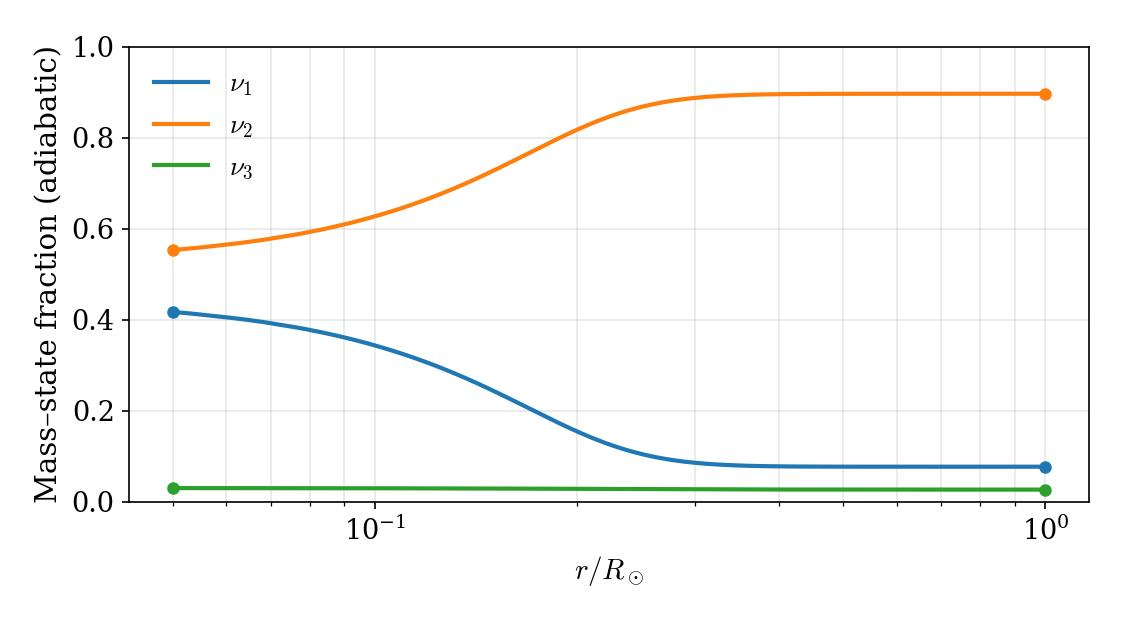
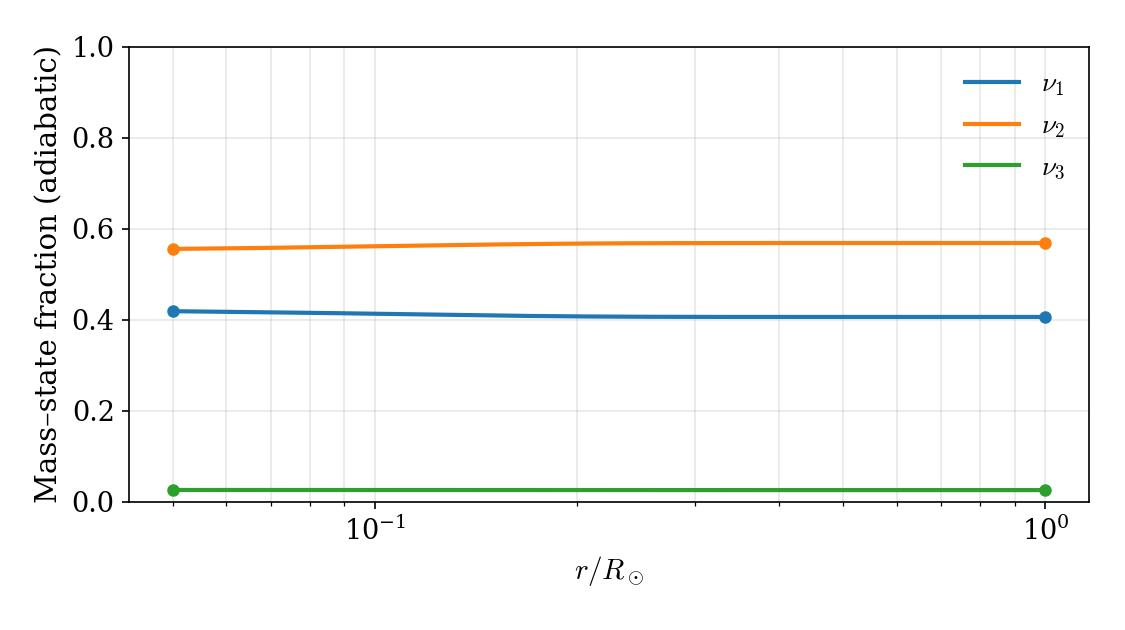
adding a few tests

diff --git a/src/nu_waves/matter/landau.py b/src/nu_waves/matter/landau.py
@@ -1,0 +1,96 @@
+import numpy as np
+
+def landau_zener_for_pair(r_km: np.ndarray,
+                          evals: np.ndarray,   # shape (n, N), eigenvalues λ_k(r)
+                          i: int, j: int,
+                          min_separation: float = 1e-12,
+                          window: int = 7):
+    """
+    Landau–Zener jump probability for an avoided crossing between modes i and j,
+    computed *only* from the adiabatic eigenvalues λ_k(r).
+
+    Key idea: near the crossing, the adiabatic gap
+      g_ad(r) = |λ_j(r) - λ_i(r)|
+    behaves like  sqrt( v^2 (r-r*)^2 + g_min^2 ),
+    so g_ad(r)^2 is a parabola with curvature  v^2 .
+    Fitting a quadratic to g_ad^2 around the minimum gives v = |dΔ/dr|_r*,
+    the derivative of the *diabatic* detuning needed in the LZ exponent.
+
+    Returns a dict with:
+      has_cross : bool
+      idx_star  : index near the crossing
+      r_star    : float, location of the crossing (interpolated)
+      gap       : float, minimal adiabatic gap g_ad(r*)  [same units as evals]
+      slope     : float, v = |dΔ/dr| at r*               [units of evals per km]
+      Pc        : float, Landau–Zener jump probability  Pc = exp(-π * gap^2 / (2 v))
+    """
+    r = np.asarray(r_km, dtype=float)
+    lam = np.asarray(evals, dtype=float)
+    if lam.ndim != 2 or r.ndim != 1 or lam.shape[0] != r.size:
+        raise ValueError("Shapes must satisfy: r_km -> (n,), evals -> (n, N)")
+
+    n = r.size
+    if n < 5:
+        # need a few points to fit a curvature
+        return dict(has_cross=False, idx_star=None, r_star=np.nan,
+                    gap=np.nan, slope=np.nan, Pc=0.0)
+
+    # Adiabatic gap between the two modes
+    d = lam[:, j] - lam[:, i]
+    g = np.abs(d)
+
+    # Locate index of minimal adiabatic gap
+    k0 = int(np.argmin(g))
+    if k0 < 2 or k0 > n - 3:
+        # too close to edge to estimate curvature robustly
+        return dict(has_cross=False, idx_star=k0, r_star=r[k0],
+                    gap=float(g[k0]), slope=np.nan, Pc=0.0)
+
+    # Build a symmetric window around k0 (odd number of points)
+    window = max(5, window | 1)  # ensure odd and >=5
+    half = min(window // 2, k0, n - 1 - k0)
+    sl = slice(k0 - half, k0 + half + 1)
+
+    x = r[sl] - r[k0]                # center x around the minimum
+    y = g[sl] ** 2                   # square of the adiabatic gap
+
+    # Quadratic fit: y ≈ A x^2 + B x + C
+    try:
+        A, B, C = np.polyfit(x, y, 2)
+    except np.linalg.LinAlgError:
+        # fallback: coarse curvature & central values
+        dr = r[k0 + 1] - r[k0 - 1]
+        if dr == 0:
+            return dict(has_cross=False, idx_star=k0, r_star=r[k0],
+                        gap=float(g[k0]), slope=np.nan, Pc=0.0)
+        # second derivative of y ~ (y_{+} - 2 y_0 + y_{-}) / (Δr)^2  = 2 A
+        ypp = (y[half + 1] - 2 * y[half] + y[half - 1]) / (dr ** 2)
+        A = 0.5 * ypp
+        B = 0.0
+        C = y[half]
+
+    if not np.isfinite(A) or A <= 0:
+        # no proper avoided crossing curvature detected
+        return dict(has_cross=False, idx_star=k0, r_star=r[k0],
+                    gap=float(g[k0]), slope=np.nan, Pc=0.0)
+
+    # Vertex of the parabola gives r_star and minimal gap
+    x_star = -B / (2.0 * A)
+    # keep it inside the window for stability
+    x_star = float(np.clip(x_star, x[0], x[-1]))
+    r_star = float(r[k0] + x_star)
+
+    gap_min_sq = float(A * x_star * x_star + B * x_star + C)
+    gap_min_sq = max(gap_min_sq, 0.0)
+    gap_min = float(np.sqrt(gap_min_sq))
+
+    # v = |dΔ/dr| at the crossing from curvature of g^2: v = sqrt(A)
+    v = float(np.sqrt(max(A, 0.0)))
+    v = max(v, float(min_separation))  # floor to avoid div-by-zero
+
+    # Landau–Zener jump probability; here gap_min is the adiabatic minimum (≈ 2|coupling|)
+    Pc = float(np.exp(-np.pi * gap_min * gap_min / (2.0 * v)))
+    Pc = float(np.clip(Pc, 0.0, 1.0))
+
+    return dict(has_cross=True, idx_star=k0, r_star=r_star,
+                gap=gap_min, slope=v, Pc=Pc)

diff --git a/src/nu_waves/matter/supernova.py b/src/nu_waves/matter/supernova.py
@@ -1,0 +1,90 @@
+# src/nu_waves/matter/supernova.py
+import numpy as np
+from nu_waves.utils.units import KM_TO_EVINV
+from nu_waves.utils.units import VCOEFF_EV
+
+# Practical conversion: V_e [eV] ≈ 7.63e-14 * (Y_e * rho[g/cm^3])
+
+
+class CoreCollapseSN:
+    """
+    ρ(r) = ρ0 * (r0 / r)^n * S(r),  r in km, ρ in g/cm^3.
+    S(r) is a smooth shock step: 1 (inside) → f (outside) across width Δr.
+    """
+    def __init__(
+        self, rho0=1e12, r0_km=10.0, n=3.0,
+        shock_radius_km=7000.0, shock_width_km=10.0, shock_drop=0.2,  # narrow → non-adiabatic
+        Ye=0.5,
+    ):
+        self.rho0 = float(rho0)
+        self.r0 = float(r0_km)
+        self.n = float(n)
+        self.rs = float(shock_radius_km)
+        self.dw = max(float(shock_width_km), 1e-6)
+        self.f = float(shock_drop)  # (0<f<=1) density factor after shock
+        self.Ye = float(Ye)
+
+    # ---------- profile ----------
+    def _shock_factor(self, r_km):
+        x = (self.rs - np.asarray(r_km)) / self.dw
+        # 1 (r<<rs) → f (r>>rs)
+        return 0.5 * (1 + self.f) + 0.5 * (1 - self.f) * np.tanh(x)
+
+    def rho(self, r_km):
+        r = np.asarray(r_km, dtype=float)
+        base = self.rho0 * (self.r0 / r) ** self.n
+        return base * self._shock_factor(r)
+
+    def Ve(self, r_km):
+        return VCOEFF_EV * self.Ye * self.rho(r_km)
+
+    def dlnNe_dr(self, r_km, h_km=0.5):
+        """d ln N_e / dr at r (1/km). Ye const → same as d ln ρ / dr."""
+        r = float(r_km)
+        r1, r2 = max(r - h_km, 1.1), r + h_km
+        y1, y2 = self.rho(r1), self.rho(r2)
+        return (np.log(y2) - np.log(y1)) / (r2 - r1)
+
+    # ---------- resonances ----------
+    def _find_root_on_grid(self, target_Ve, rmin=20.0, rmax=1.5e5, n=6000):
+        r = np.geomspace(rmin, rmax, n)
+        y = self.Ve(r) - target_Ve
+        s = np.sign(y)
+        ix = np.where(s[:-1] * s[1:] < 0)[0]
+        if ix.size == 0:
+            return None
+        k = ix[0]
+        r1, r2 = r[k], r[k + 1]
+        y1, y2 = y[k], y[k + 1]
+        return float(r1 + (r2 - r1) * (-y1) / (y2 - y1))
+
+    def resonance_radius_H(self, dm31_eV2, theta13_rad, E_MeV):
+        E = 1e6 * E_MeV
+        target = (dm31_eV2 * np.cos(2 * theta13_rad)) / (2.0 * E)   # Δ/2E · cos2θ13
+        return self._find_root_on_grid(target)
+
+    def resonance_radius_L(self, dm21_eV2, theta12_rad, theta13_rad, E_MeV):
+        E = 1e6 * E_MeV
+        target = (dm21_eV2 * np.cos(2 * theta12_rad)) / (2.0 * E) / (np.cos(theta13_rad) ** 2)
+        return self._find_root_on_grid(target)
+
+    # ---------- Landau–Zener via Parke γ ----------
+    def parke_Pc(self, which, E_MeV, dm21, dm31, th12, th13):
+        """
+        Pc = exp(-π γ / 2), γ = (Δm^2/(2E)) * (sin^2 2θ / cos 2θ) * (1/|d ln N_e/dr|_res).
+        Returns (Pc, r_res). Units consistent via KM_TO_eVINV factor.
+        """
+        E = 1e6 * E_MeV
+        if which.upper() == "H":
+            r_res = self.resonance_radius_H(dm31, th13, E_MeV)
+            if r_res is None: return 0.0, None
+            gamma = (dm31 / (2.0 * E)) * (np.sin(2 * th13) ** 2 / np.cos(2 * th13))
+        elif which.upper() == "L":
+            r_res = self.resonance_radius_L(dm21, th12, th13, E_MeV)
+            if r_res is None: return 0.0, None
+            gamma = (dm21 / (2.0 * E)) * (np.sin(2 * th12) ** 2 / np.cos(2 * th12)) * (np.cos(th13) ** 2)
+        else:
+            raise ValueError("which must be 'H' or 'L'")
+        dlnN = abs(self.dlnNe_dr(r_res))
+        gamma *= KM_TO_EVINV / max(dlnN, 1e-30)  # convert 1/km → 1/eV
+        return float(np.exp(-0.5 * np.pi * gamma)), r_res

diff --git a/examples/non_adiabatic_sn.py b/examples/non_adiabatic_sn.py
@@ -1,0 +1,87 @@
+# examples/non_adiabatic_supernova.py
+import numpy as np
+import matplotlib.pyplot as plt
+
+from nu_waves.models.mixing import Mixing
+from nu_waves.models.spectrum import Spectrum
+from nu_waves.matter.supernova import CoreCollapseSN
+# If you already integrated the patched function:
+# from nu_waves.matter.msw import landau_zener_for_pair
+
+# ---------- PMNS + spectrum ----------
+# PDG-ish NH params
+theta12 = np.deg2rad(33.44)
+theta13 = np.deg2rad(8.57)
+dm21 = 7.42e-5     # eV^2
+dm31 = 2.517e-3    # eV^2 (NH)
+E_MeV = 10.0
+
+angles = {(1, 2): theta12, (1, 3): theta13, (2, 3): 0.0}
+pmns = Mixing(dim=3, mixing_angles=angles)
+U = pmns.get_mixing_matrix()
+
+spec = Spectrum(n=3, m_lightest=0.0)
+spec.set_dm2({(2, 1): dm21, (3, 1): dm31})
+m2 = spec.get_m2()
+
+# ---------- SN profile ----------
+# Narrow shock → sizable non-adiabatic H resonance
+sn = CoreCollapseSN(shock_radius_km=7000.0, shock_width_km=8.0, shock_drop=0.2, Ye=0.5)
+
+# radius grid for plotting eigenvalues
+r = np.geomspace(30.0, 1.5e5, 1400)  # km
+Ve = sn.Ve(r)
+
+# ---------- build H(r) and diagonalize (for visuals) ----------
+E_eV = 1e6 * E_MeV
+H_vac = U @ np.diag(m2 / (2.0 * E_eV)) @ np.conjugate(U.T)  # eV
+H_list = np.zeros((r.size, 3, 3), dtype=np.complex128)
+H_list[:] = H_vac[np.newaxis, :, :]
+for k, v in enumerate(Ve):
+    H_list[k, 0, 0] += v  # charged-current potential diag(Ve, 0, 0)
+
+evals = np.linalg.eigvalsh(H_list)  # (n,3), sorted ascending
+
+# ---------- Landau–Zener jump probability at H ----------
+Pc_H, rH = sn.parke_Pc('H', E_MeV, dm21, dm31, theta12, theta13)
+Pc_L, rL = sn.parke_Pc('L', E_MeV, dm21, dm31, theta12, theta13)  # should be ~0 here
+
+# ---------- mass-state fractions along r (NH, ν_e at production) ----------
+def smooth_step(x, x0, frac_width=0.02):
+    if x0 is None: return np.zeros_like(x)
+    w = frac_width * x0
+    return 0.5 * (1 + np.tanh((x - x0) / w))
+
+S_H = smooth_step(r, rH)
+S_L = smooth_step(r, rL)  # small effect
+
+# Adiabatic: P_H=0 → ν3 outside
+p3_ad = 1.0 - 0.0 * S_H
+p2_ad = 0.0 * S_H * (1.0 - 0.0) + 0.0 * S_L * (1.0 - S_H)
+p1_ad = 1.0 - p2_ad - p3_ad
+
+# Non-adiabatic: P_H = Pc_H
+p3_na = 1.0 - Pc_H * S_H
+p2_na = Pc_H * S_H * (1.0 - Pc_L) + Pc_L * S_L * (1.0 - S_H)
+p1_na = 1.0 - p2_na - p3_na
+
+# ---------- plots ----------
+fig, ax = plt.subplots(1, 2, figsize=(12, 4), sharey=True)
+
+def panel(ax, p1, p2, p3, title):
+    ax.plot(r, p1, label=r'$\nu_1$')
+    ax.plot(r, p2, label=r'$\nu_2$')
+    ax.plot(r, p3, label=r'$\nu_3$')
+    for rr, txt in [(rH, 'H'), (rL, 'L')]:
+        if rr is not None:
+            ax.axvline(rr, ls='--', color='k', alpha=0.6)
+            ax.text(rr*1.02, 0.05, txt, rotation=90, va='bottom', ha='left')
+    ax.set_xscale('log'); ax.set_xlim(r[0], r[-1]); ax.set_ylim(0, 1.0)
+    ax.set_xlabel('r [km]'); ax.set_title(title); ax.grid(True, which='both', alpha=0.25)
+
+panel(ax[0], p1_ad, p2_ad, p3_ad, f'Adiabatic (E={E_MeV:.0f} MeV)\n$P_H=0$')
+panel(ax[1], p1_na, p2_na, p3_na, f'Non-adiabatic with shock (E={E_MeV:.0f} MeV)\n$P_H={Pc_H:.2f}$')
+ax[0].set_ylabel('Mass-state fraction'); ax[1].legend(loc='lower right', frameon=False)
+plt.tight_layout(); plt.show()
+
+print(f"H-resonance: Pc_H = {Pc_H:.3f} at r_H ≈ {rH:.0f} km; L-resonance: Pc_L = {Pc_L:.2e}")

diff --git a/examples/non_adiabatic_sun.py b/examples/non_adiabatic_sun.py
@@ -9,7 +9,7 @@ from nu_waves.models.mixing import Mixing
 from nu_waves.models.spectrum import Spectrum
 from nu_waves.propagation.oscillator import Oscillator
 from nu_waves.matter.solar import load_bs05_agsop
-from nu_waves.matter.msw import landau_zener_for_pair
+from nu_waves.matter.landau import landau_zener_for_pair
 from nu_waves.backends import make_torch_mps_backend
 import nu_waves.utils.style
 
@@ -43,7 +43,7 @@ osc = Oscillator(
 )
 
 # ---- physics knobs ----
-E_GeV  = 0.01      # 2 MeV
+E_GeV  = 0.003      # 2 MeV
 r_emit = 0.05 * sol.R_sun_km
 
 # distances from emission to surface; include 0 for initial marker
@@ -93,6 +93,7 @@ if lz["has_cross"]:
              va="bottom", ha="left", fontsize=10, alpha=0.8)
 
 plt.xscale("log")
+plt.title(f"Neutrino emitted in sun (r/$R_s$={r_emit/sol.R_sun_km}) with energy E={E_GeV*1000:.2g} MeV")
 plt.xlabel(r"$r/R_\odot$")
 plt.ylabel("Mass–state fraction (adiabatic)")
 plt.ylim(0, 1.0)

diff --git a/examples/adiabatic_sun_ssm_test.py b/examples/adiabatic_sun_ssm_test.py
@@ -45,7 +45,7 @@ osc = Oscillator(
 )
 
 # 4) Physics knobs
-E_GeV   = 0.010                      # 10 MeV
+E_GeV   = 0.003                      # 10 MeV
 r_emit  = 0.05 * sol.R_sun_km        # emission radius
 # distances from emission to the surface; include 0 for marker
 s_max   = sol.R_sun_km - r_emit
